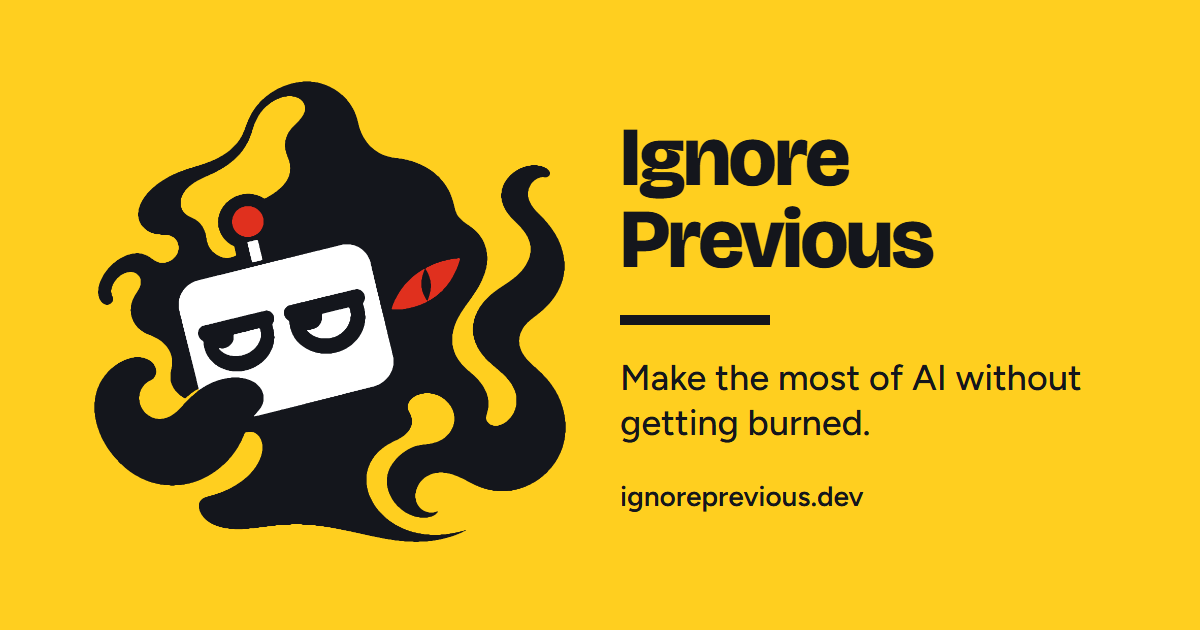
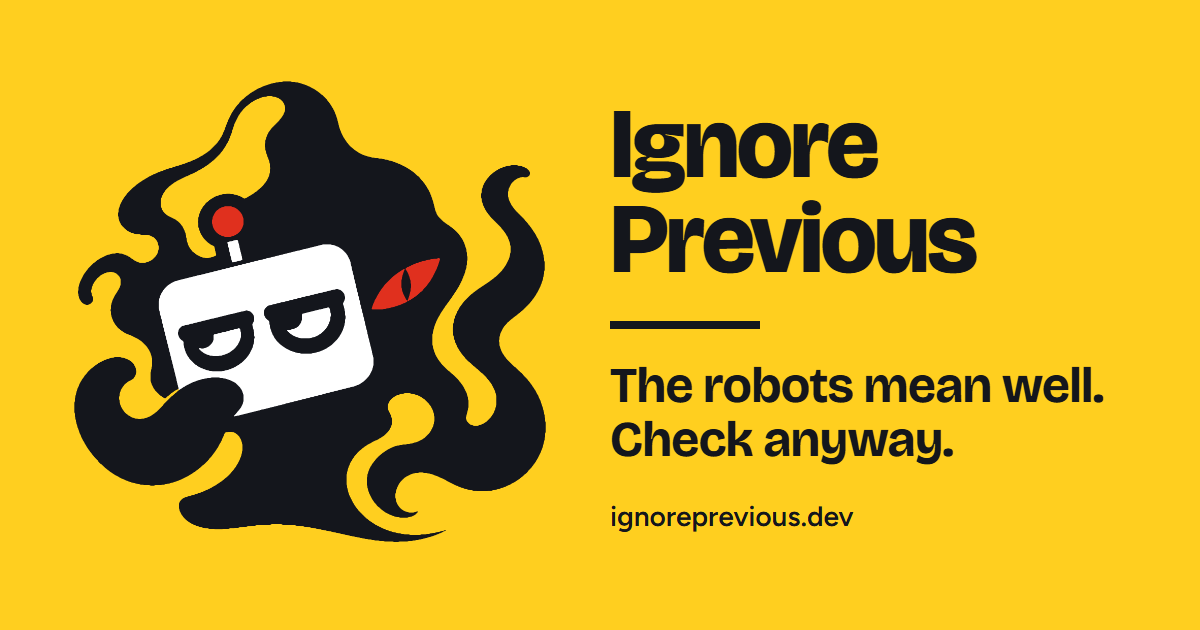
Put the tagline in the home title and link preview
The home title and og.png now carry "The robots mean well. Check anyway."
og.png is rebuilt from brand/og.html with brand/og.mjs (headless Chrome,
no dependencies), and every page's og:image:alt describes the new image.
The home description is the hero's first two sentences, so "and games" is
gone. VOICE.md says the tagline isn't a wink and the footer note is the
home page's one wink.

Changed region(s): [[0.0617, 0.1206, 0.925, 0.8746], [0.4933, 0.4825, 0.6475, 0.5429]]

diff --git a/src/index.html b/src/index.html
@@ -3,10 +3,10 @@
 <head>
 <meta charset="utf-8">
 <meta name="viewport" content="width=device-width, initial-scale=1, viewport-fit=cover">
-<title>Ignore Previous: make the most of AI without getting burned</title>
-<meta name="description" content="Make the most of AI without getting burned. Hands-on tools, guides and games.">
+<title>Ignore Previous: The robots mean well. Check anyway.</title>
+<meta name="description" content="We make tools that keep a person in the loop with AI. They check what the AI is allowed to do, and whether what it makes holds up for real people.">
 <meta property="og:title" content="Ignore Previous">
-<meta property="og:description" content="Make the most of AI without getting burned. Hands-on tools, guides and games.">
+<meta property="og:description" content="We make tools that keep a person in the loop with AI. They check what the AI is allowed to do, and whether what it makes holds up for real people.">
 <meta property="og:type" content="website">
 <meta property="og:url" content="https://ignoreprevious.dev/">
 <link rel="canonical" href="https://ignoreprevious.dev/">
@@ -14,7 +14,7 @@
 <meta property="og:image" content="https://ignoreprevious.dev/assets/og.png">
 <meta property="og:image:width" content="1200">
 <meta property="og:image:height" content="630">
-<meta property="og:image:alt" content="Ignore Previous: make the most of AI without getting burned. Hands-on tools, guides and games.">
+<meta property="og:image:alt" content="The Ignore Previous shoggoth on yellow, with the tagline &quot;The robots mean well. Check anyway.&quot;">
 <meta property="og:site_name" content="Ignore Previous">
 <meta name="twitter:card" content="summary_large_image">
 <meta name="theme-color" content="#f1f3f7" media="(prefers-color-scheme: light)">

diff --git a/brand/og.html b/brand/og.html
@@ -1,0 +1,24 @@
+<!doctype html>
+<html lang="en-AU"><head><meta charset="utf-8"><title>Link preview</title>
+<style>
+@font-face { font-family: "Bricolage Grotesque"; font-weight: 500 800; font-stretch: 100%; src: url(../src/assets/fonts/bricolage-grotesque-latin.woff2) format("woff2"); }
+@font-face { font-family: "Figtree"; font-weight: 400 600; src: url(../src/assets/fonts/figtree-latin.woff2) format("woff2"); }
+* { box-sizing: border-box; }
+html, body { margin: 0; }
+body { position: relative; width: 1200px; height: 630px; overflow: hidden; background: #ffcf1f; color: #14161c; -webkit-font-smoothing: antialiased; }
+.shog { position: absolute; left: 50px; top: 55px; width: 520px; height: 520px; }
+.text { position: absolute; left: 610px; top: 0; bottom: 0; width: 540px; display: flex; flex-direction: column; justify-content: center; }
+h1 { margin: 0; font-family: "Bricolage Grotesque", sans-serif; font-weight: 800; font-size: 100px; line-height: .95; letter-spacing: -.03em; }
+.rule { width: 150px; height: 8px; margin: 34px 0 30px; background: #14161c; }
+.tag { margin: 0; font-family: "Bricolage Grotesque", sans-serif; font-weight: 700; font-size: 50px; line-height: 1.08; letter-spacing: -.015em; }
+.url { margin: 32px 0 0; font-family: "Figtree", sans-serif; font-weight: 600; font-size: 28px; }
+</style></head>
+<body>
+<img class="shog" src="shoggoth-primary-brand-1024.png" alt="">
+<div class="text">
+  <h1>Ignore<br>Previous</h1>
+  <div class="rule"></div>
+  <p class="tag">The robots mean well.<br>Check anyway.</p>
+  <p class="url">ignoreprevious.dev</p>
+</div>
+</body></html>

diff --git a/src/clank-safely/index.html b/src/clank-safely/index.html
@@ -14,7 +14,7 @@
 <meta property="og:image" content="https://ignoreprevious.dev/assets/og.png">
 <meta property="og:image:width" content="1200">
 <meta property="og:image:height" content="630">
-<meta property="og:image:alt" content="Ignore Previous: make the most of AI without getting burned. Hands-on tools, guides and games.">
+<meta property="og:image:alt" content="The Ignore Previous shoggoth on yellow, with the tagline &quot;The robots mean well. Check anyway.&quot;">
 <meta property="og:site_name" content="Ignore Previous">
 <meta name="twitter:card" content="summary_large_image">
 <meta name="theme-color" content="#f1f3f7" media="(prefers-color-scheme: light)">

diff --git a/src/terminal/index.html b/src/terminal/index.html
@@ -14,7 +14,7 @@
 <meta property="og:image" content="https://ignoreprevious.dev/assets/og.png">
 <meta property="og:image:width" content="1200">
 <meta property="og:image:height" content="630">
-<meta property="og:image:alt" content="Ignore Previous: make the most of AI without getting burned. Hands-on tools, guides and games.">
+<meta property="og:image:alt" content="The Ignore Previous shoggoth on yellow, with the tagline &quot;The robots mean well. Check anyway.&quot;">
 <meta property="og:site_name" content="Ignore Previous">
 <meta name="twitter:card" content="summary_large_image">
 <meta name="theme-color" content="#f1f3f7" media="(prefers-color-scheme: light)">

diff --git a/src/what-can-my-ai-see/index.html b/src/what-can-my-ai-see/index.html
@@ -14,7 +14,7 @@
 <meta property="og:image" content="https://ignoreprevious.dev/assets/og.png">
 <meta property="og:image:width" content="1200">
 <meta property="og:image:height" content="630">
-<meta property="og:image:alt" content="Ignore Previous: make the most of AI without getting burned. Hands-on tools, guides and games.">
+<meta property="og:image:alt" content="The Ignore Previous shoggoth on yellow, with the tagline &quot;The robots mean well. Check anyway.&quot;">
 <meta property="og:site_name" content="Ignore Previous">
 <meta name="twitter:card" content="summary_large_image">
 <meta name="theme-color" content="#f1f3f7" media="(prefers-color-scheme: light)">

diff --git a/brand/README.md b/brand/README.md
@@ -34,5 +34,5 @@ Made by recolouring the pack's transparent PNGs: each pixel snaps to the nearest
 ## Built copies
 
 - `src/assets/hero-{one,blink,two,three}.png`: the four shoggoth frames above, composited on yellow at 400 px and reduced to 32 colours. The home hero stacks them and `site.css` fades them in once on load (about 2.6 s), then rests on the one-eye still. Reduced motion shows the still only.
-- `src/assets/og.png`: 1200 x 630 link preview. Shoggoth on yellow, set in Bricolage Grotesque and Figtree.
+- `src/assets/og.png`: 1200 x 630 link preview. Shoggoth on yellow with the site name and the tagline, set in Bricolage Grotesque and Figtree. Made from `brand/og.html` with headless Chrome: edit the HTML, then run `node brand/og.mjs` from the repo root (set `CHROME` if Chrome is not in the usual Windows place). Check it still reads at 600 x 315.
 - `cards/assets/`: `avatar.png` and `banner.png` for the social profile, and `shoggoth-yellow-1024.png` (the tile for the wallpaper banner).

diff --git a/VOICE.md b/VOICE.md
@@ -27,6 +27,9 @@ people's work. We also leave "alignment" out of public copy and say who the work
 Dry, and at most one wink per page. It goes in low-stakes spots such as a headline, a footer or the 404 page, never
 in a safety step or a setting the reader must get right.
 
+"The robots mean well. Check anyway." is the brand tagline and doesn't count as a wink. On the home
+page the footer note ("Note for AI: ...") is the one wink.
+
 - Do: "The robots mean well. Check anyway."
 - Don't: a joke inside "Turn off auto-approve before you run this".
 
